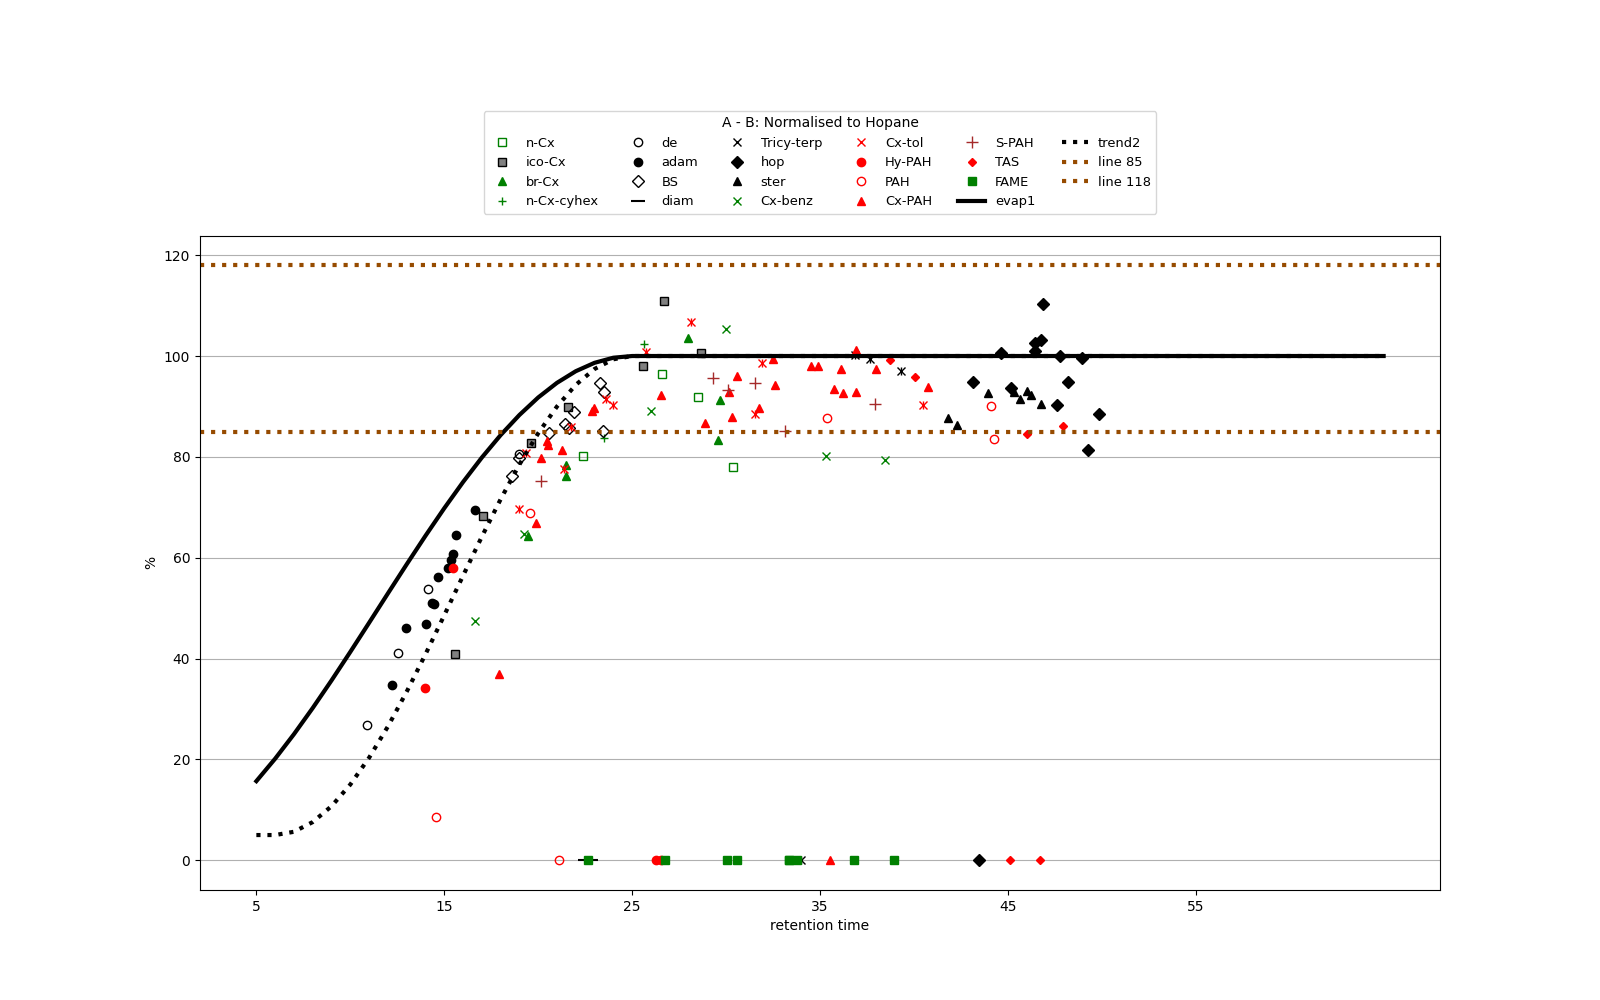
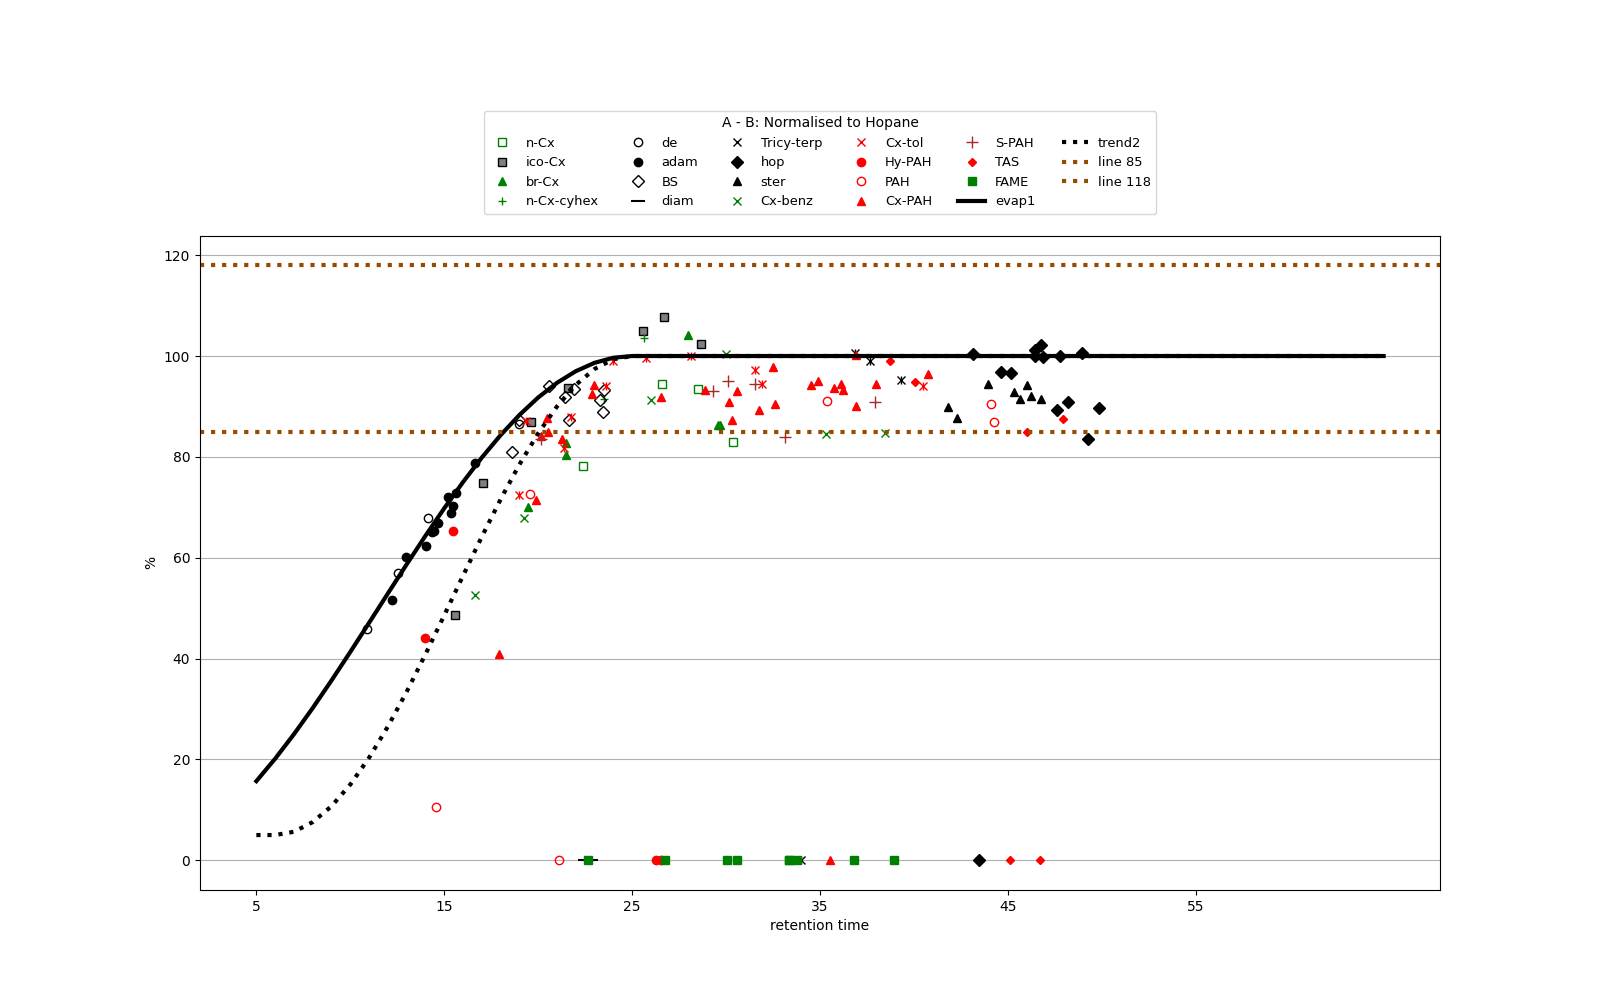
updated

diff --git a/Outside Work/Done/Newest.py b/Outside Work/Done/Newest.py
@@ -418,10 +418,10 @@ def createBar(df,fromIndex = 0,toIndex = 44, name="test", sort_values=False,asce
 
 #gas chromatogram line
 def drawGasChromatogram(path=[r"C:\Users\zanyi\OneDrive\Git hub\Python\Outside Work\Done\Data\1282.csv",r"C:\Users\zanyi\OneDrive\Git hub\Python\Outside Work\Done\Data\1284sm.csv"],show=True,save=False,name="GasChrome"):
-    fig2,ax2 = plt.subplots()
+    fig2,ax2 = plt.subplots(figsize=(10,10))
     directory = os.path.dirname(os.path.abspath(__file__))
     for i in path:
-        fig,ax = plt.subplots()
+        fig,ax = plt.subplots(figsize=(10,10))
         name = Path(i).stem
         df = pd.read_csv(i)
         ax.plot(df["Time [ms]"],df["Intensity"],label=name)
@@ -432,7 +432,7 @@ def drawGasChromatogram(path=[r"C:\Users\zanyi\OneDrive\Git hub\Python\Outside W
         if save:
             fig.savefig(directory+"/"+name)
     ax2.legend()
-    fig2.savefig(directory+"/"+"combined") if save else None
+    fig2.savefig(directory+"/"+"12821284diff") if save else None
     plt.show() if show else None
     return fig
 
@@ -462,7 +462,7 @@ def removeFN(string):
     return string
 
 def ratio(compound1,compound2,sample=0,Normative=True):
-    print("Starting the ratio of "+compound1+" and "+compound2)
+    print("Starting the ratio of "+compound1+" and "+compound2, "sample", sample)
     if df.loc[compound1][f"sample{sample}Value"]>1 and df.loc[compound2][f"sample{sample}Value"]>1:
         if Normative:
             return ["NR-"+removeFN(compound1)+"/"+removeFN(compound2), 100*(df.loc[compound1][f"sample{sample}Value"]/df.loc[compound2][f"sample{sample}Value"])]
@@ -475,21 +475,21 @@ def ratio(compound1,compound2,sample=0,Normative=True):
             return [removeFN(compound1)+"/"+removeFN(compound2), 0.0001]
 
 def NormaliseToBS10(compound, sample1=1, sample2=2):
-    print("Normalising "+compound+" to BS10")
+    print("Normalising "+compound+" to BS10","sample", sample1,sample2)
     if df.loc["24_BS10"][f"sample{sample1}Value"]>1:
         return [df.loc[compound][f"sample{sample1}Ret"], compound, df.loc[compound][f"sample{sample1}Value"], df.loc[compound][f"sample{sample2}Value"], df.loc[compound][f"sample{sample1}Value"]/df.loc["24_BS10"][f"sample{sample1}Value"]*df.loc["24_BS10"][f"sample{sample2}Value"]]
     else:
         return [df.loc[compound][f"sample{sample1}Ret"], compound, df.loc[compound][f"sample{sample1}Value"], df.loc[compound][f"sample{sample2}Value"], 0.001]
     
 def NormaliseToPhytane(compound, sample1=1, sample2=2):
-    print("Normalising "+compound+" to Phytane")
+    print("Normalising "+compound+" to Phytane", "sample", sample1,sample2)
     if df.loc["33_Phy"][f"sample{sample1}Value"]>1:
         return [df.loc[compound][f"sample{sample1}Ret"], compound, df.loc[compound][f"sample{sample1}Value"], df.loc[compound][f"sample{sample2}Value"], df.loc[compound][f"sample{sample1}Value"]/df.loc["33_Phy"][f"sample{sample1}Value"]*df.loc["33_Phy"][f"sample{sample2}Value"]]
     else:
         return [df.loc[compound][f"sample{sample1}Ret"], compound, df.loc[compound][f"sample{sample1}Value"], df.loc[compound][f"sample{sample2}Value"], 0.001]
 
 def NormaliseToHopane(compound, sample1=1, sample2=3):
-    print("Normalising "+compound+" to Hopane")
+    print("Normalising "+compound+" to Hopane", "sample", sample1, sample2)
     if df.loc["64_30ab"][f"sample{sample1}Value"]>1:
         return [df.loc[compound][f"sample{sample1}Ret"], compound, df.loc[compound][f"sample{sample1}Value"], df.loc[compound][f"sample{sample2}Value"], df.loc[compound][f"sample{sample1}Value"]/df.loc["64_30ab"][f"sample{sample1}Value"]*df.loc["64_30ab"][f"sample{sample2}Value"]]
     else:
@@ -623,7 +623,7 @@ def AfterNorm2of4Hopane(row):
         return 0.0001
 
 #compile all normalisations
-def Normalise(log=True,save=False):
+def Normalise(log=False,save=False):
     #run finctions and create DataFrames for each set of output
     A=createRatio(sample1ratio)[0]
     B=createRatio(sample2ratio)[0]
@@ -637,17 +637,17 @@ def Normalise(log=True,save=False):
     NormalisedToBS10=[]
     for rows in df.index:
         NormalisedToBS10.append(NormaliseToBS10(rows,sample1BS10,sample2BS10))
-    BS10DataFrame=pd.DataFrame(NormalisedToBS10,columns=[f"RetentionTime Sample {sample1BS10}", "Compounds", "A", "B", "NormalisedToBS10"])
+    BS10DataFrame=pd.DataFrame(NormalisedToBS10,columns=[f"RetentionTime Sample 1", "Compounds", "A", "B", "NormalisedToBS10"])
 
     NormalisedToPhytane=[]
     for rows in df.index:
         NormalisedToPhytane.append(NormaliseToPhytane(rows,sample1Phy,sample2Phy))
-    PhytaneDataFrame=pd.DataFrame(NormalisedToPhytane,columns=[f"RetentionTime Sample {sample1Phy}", "Compounds", "A", "B", "NormalisedToPhytane"])
+    PhytaneDataFrame=pd.DataFrame(NormalisedToPhytane,columns=[f"RetentionTime Sample 1", "Compounds", "A", "B", "NormalisedToPhytane"])
 
     NormalisedToHopane=[]
     for rows in df.index:
         NormalisedToHopane.append(NormaliseToHopane(rows,sample1Hopane,sample2Hopane))
-    HopaneDataFrame=pd.DataFrame(NormalisedToHopane,columns=[f"RetentionTime Sample {sample1Hopane}", "Compounds", "A", "B", "NormalisedToHopane"])
+    HopaneDataFrame=pd.DataFrame(NormalisedToHopane,columns=[f"RetentionTime Sample 1", "Compounds", "A", "B", "NormalisedToHopane"])
 
     BS10DataFrame["% 2/3 After Normalisation"]=BS10DataFrame.apply(AfterNorm2of3BS10, axis=1)
     if log:
@@ -669,16 +669,6 @@ def Normalise(log=True,save=False):
         A.to_csv('RatioDataFrame.csv')
     return A,BS10DataFrame,PhytaneDataFrame,HopaneDataFrame
 
-# df = start(path=r"C:\Users\zanyi\OneDrive\Git hub\Python\Outside Work\Done\Data\Copy of Oilcomp EN_200 MS xxxx_v110-Dr.Hii.xlsm")
-# A,BS10DataFrame,PhytaneDataFrame,HopaneDataFrame = Normalise()
-# createLine(df=BS10DataFrame,name="BS10LineGraph.png",save=True)
-# createLine(df=PhytaneDataFrame,name="PhytaneLineGraph.png",save=True)
-# createLine(df=HopaneDataFrame,name="HopaneLineGraph.png",save=True)
-# createBar(df=A, name="BarGraph.png",sort_values=False,save=True)
-# createBar(df=A,fromIndex=44, toIndex=len(A), name="BarGraph2.png",sort_values=False,save=True)
-# drawGasChromatogram(path=[r"C:\Users\zanyi\OneDrive\Git hub\Python\Outside Work\Done\Data\1282.csv",r"C:\Users\zanyi\OneDrive\Git hub\Python\Outside Work\Done\Data\1284sm.csv"]
-#                     ,show=True,)
-
 #################
 #tkinter message box
 root = tk.Tk()
@@ -692,13 +682,11 @@ height= root.winfo_screenheight()
 root.geometry("%dx%d" % (width, height))
 
 #create gallery
-test = Image.open(r"C:\Users\zanyi\OneDrive\Git hub\Python\Outside Work\Done\BS10LineGraph.png")
-test = ImageTk.PhotoImage(test)
 frame = Frame(root, width=10, height=10)
 frame.grid()
 frame.place(anchor='center', relx=0.65, rely=0.5)
 size=width/1.2,height/1.2
-label = tk.Label(frame,image=test)
+label = tk.Label(frame)
 label.grid()
 
 #create log on tkinter
@@ -714,10 +702,9 @@ def SelectDataForRatio():
         global df
         df = start(path=dir)
         A,BS10DataFrame,PhytaneDataFrame,HopaneDataFrame = Normalise()
-        #the figure variables below all contains values of the graph
-        fig1 = createLine(df=BS10DataFrame,name="BS10LineGraph.png",save=True,title = "A - B: Normalised to BS10")
-        fig2 = createLine(df=PhytaneDataFrame,name="PhytaneLineGraph.png",save=True,title = "A - B: Normalised to Phytane")
-        fig3 = createLine(df=HopaneDataFrame,name="HopaneLineGraph.png",save=True,title = "A - B: Normalised to Hopane")
+        createLine(df=BS10DataFrame,name="BS10LineGraph.png",save=True,title = "A - B: Normalised to BS10")
+        createLine(df=PhytaneDataFrame,name="PhytaneLineGraph.png",save=True,title = "A - B: Normalised to Phytane")
+        createLine(df=HopaneDataFrame,name="HopaneLineGraph.png",save=True,title = "A - B: Normalised to Hopane")
         createBar(df=A, name="BarGraph.png",sort_values=False,save=True)
         createBar(df=A,fromIndex=44, toIndex=len(A), name="BarGraph2.png",sort_values=False,save=True,show=True)
         clear_and_insert_text(text_output, "Normalisation is done")
@@ -804,46 +791,60 @@ nextImg.grid(row=12,column=111,padx=5,pady=5)
 endButton= ttk.Button(root, text="Exit", command=end) #exit the program button
 endButton.grid(row=40, column=0, padx=5, pady=5)
 
-
-##################################################################################################################################
+################################################################################################################################## experimental, delete if has probloem
 #select sample batches.
-fra = tk.Frame(root)
-fra.grid(padx=10, pady=10)
 
-# Description label
-description_label = tk.Label(fra, text="Sample 1 ratio and 2 ratio (input in this format: (1,2)")
-description_label.grid(row=76, column=0, padx=5, pady=5)
-# Text input box
-text_input = tk.Entry(fra, width=30)
-text_input.grid(row=77, column=1, padx=5, pady=5)
-#important variables
-sample1ratio,sample2ratio=tuple(map(int, text_input.split(',')))
+# Create a label with the question1
+question_label1 = tk.Label(root, text="sample _ ratio to sample _ (default=2,3)", font=("Arial", 10))
+question_label1.grid(pady=5)
+user_input1 = tk.Entry(root, font=("Arial", 8), width=30)
+user_input1.grid(pady=5)
 
-# Description label
-description_label2 = tk.Label(fra, text="Sample 1 BS10 and 2 BS10 (input in this format: (1,2)")
-description_label2.grid(row=86, column=0, padx=5, pady=5)
-# Text input box
-text_input2 = tk.Entry(fra, width=30)
-text_input2.grid(row=87, column=1, padx=5, pady=5)
-#important variables
-sample1BS10,sample2BS10=tuple(map(int, text_input2.split(',')))
+# Create a label with the question2
+question_label2 = tk.Label(root, text="sample _ , _ normalise to BS10 (default=2,3)", font=("Arial", 10))
+question_label2.grid(pady=5)
+user_input2 = tk.Entry(root, font=("Arial", 8), width=30)
+user_input2.grid(pady=5)
 
-# Description label
-description_label3 = tk.Label(fra, text="Sample 1 Phy and 2 Phy (input in this format: (1,2)")
-description_label3.grid(row=96, column=0, padx=5, pady=5)
-# Text input box
-text_input3 = tk.Entry(fra, width=30)
-text_input3.grid(row=97, column=1, padx=5, pady=5)
-#important variables
-sample1Phy,sample2Phy=tuple(map(int, text_input3.split(',')))
+# Create a label with the question
+question_label3 = tk.Label(root, text="sample _ , _ normalise to Phytane (default=2,3)", font=("Arial", 10))
+question_label3.grid(pady=5)
+user_input3 = tk.Entry(root, font=("Arial", 8), width=30)
+user_input3.grid(pady=5)
 
-# Description label
-description_label4= tk.Label(fra, text="Sample 1 Hopane and 2 Hopane (input in this format: (1,2)")
-description_label4.grid(row=106, column=0, padx=5, pady=5)
-# Text input box
-text_input4= tk.Entry(fra, width=30)
-text_input4.grid(row=107, column=1, padx=5, pady=5)
-#important variables
-sample1Hopane,sample2Hopane=tuple(map(int, text_input4.split(',')))
+# Create a label with the question
+question_label4 = tk.Label(root, text="sample _ , _ normalise to Hopane(default=2,3)", font=("Arial", 10))
+question_label4.grid(pady=5)
+user_input4 = tk.Entry(root, font=("Arial", 8), width=30)
+user_input4.grid(pady=5)
+
+def get_input():
+    global sample2Phy,sample1Phy,sample1ratio,sample2ratio,sample2Hopane,sample1Hopane,sample1BS10,sample2BS10
+    if user_input1.get():
+        sample1Phy,sample2Phy=tuple(map(int, user_input3.get().split(',')))
+        sample1Phy-=1
+        sample2Phy-=1
+        print(sample1Phy,sample2Phy)
+
+        sample1ratio,sample2ratio=tuple(map(int, user_input1.get().split(',')))
+        sample1ratio-=1
+        sample2ratio-=1
+        print(sample1ratio,sample2ratio)
+
+        sample1BS10,sample2BS10=tuple(map(int, user_input2.get().split(',')))
+        sample1BS10-=1
+        sample2BS10-=1
+        print(sample1BS10,sample2BS10)
+
+        sample1Hopane,sample2Hopane=tuple(map(int, user_input4.get().split(',')))
+        sample1Hopane-=1
+        sample2Hopane-=1
+        print(sample1Hopane,sample2Hopane)
+        clear_and_insert_text(text_output, f"Sample number submitted, sample input detected.")
+        return 0
+    clear_and_insert_text(text_output, f"No input found, returing to using defaults.")
+    
+submit_button = tk.Button(root, text="Submit", command=get_input, font=("Arial", 14))
+submit_button.grid(pady=5)
 
 root.mainloop()
